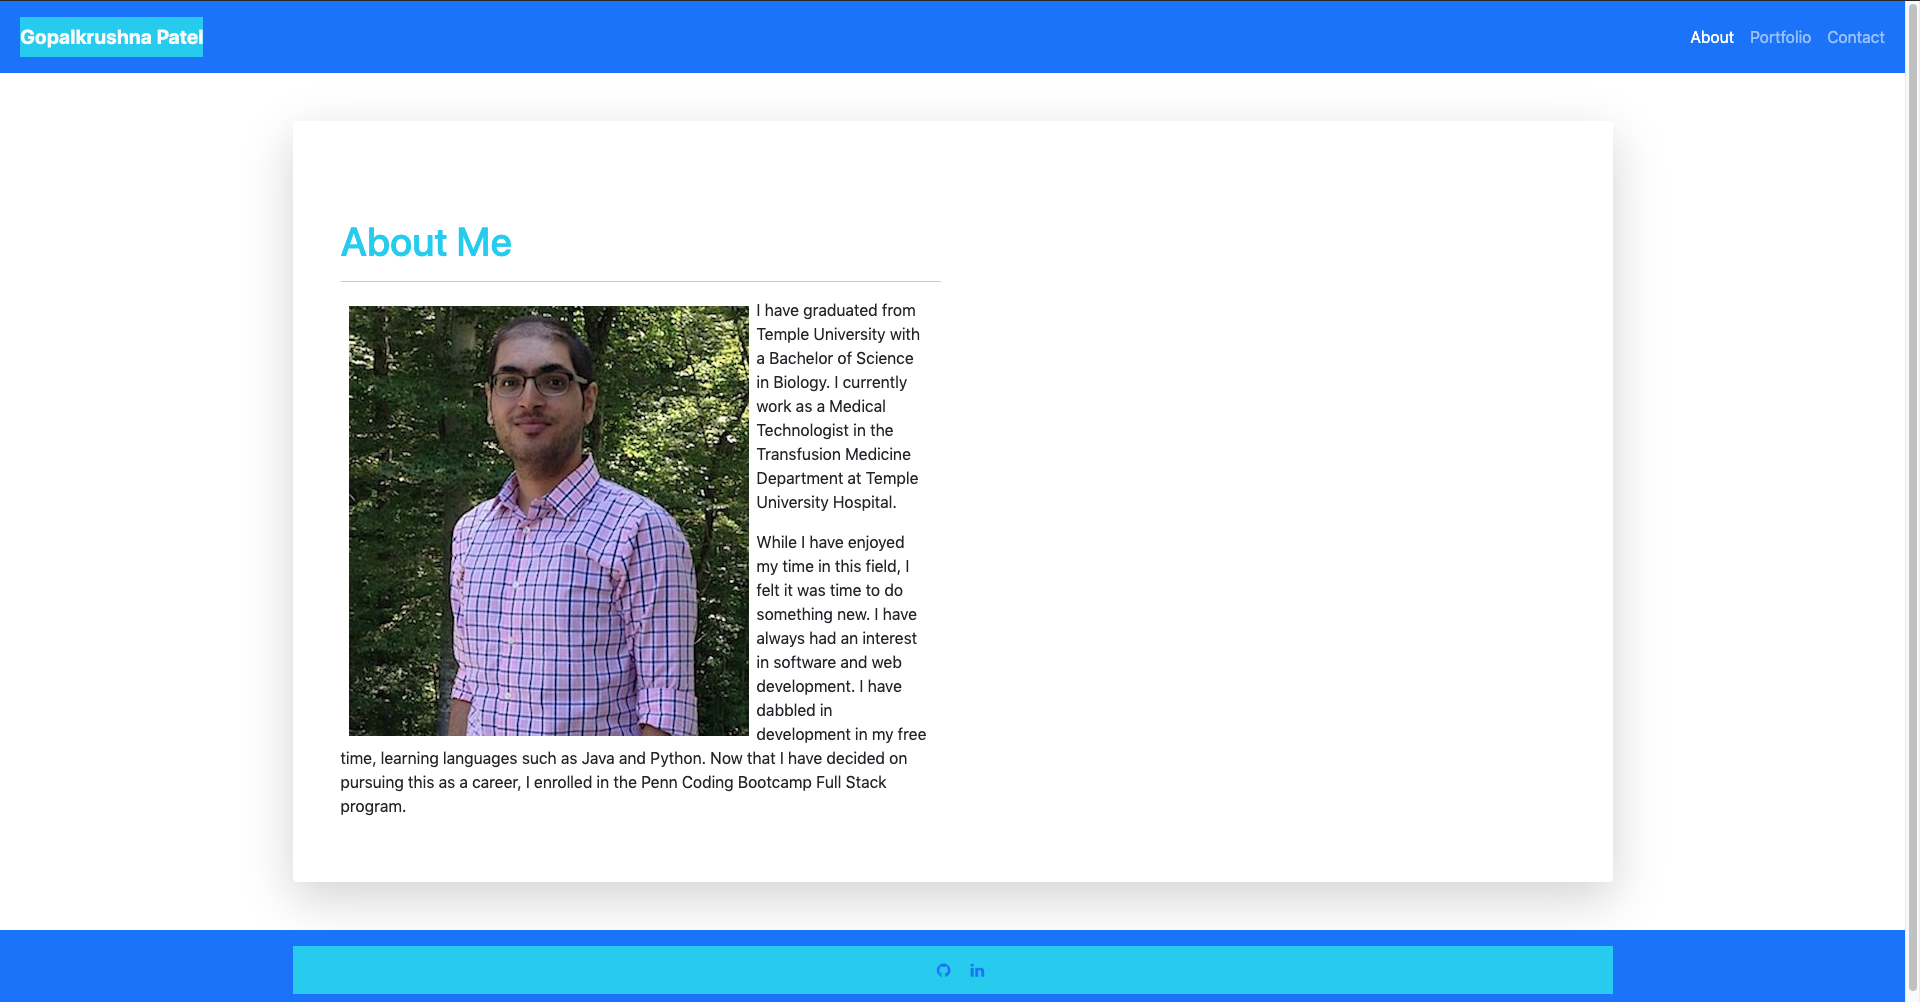
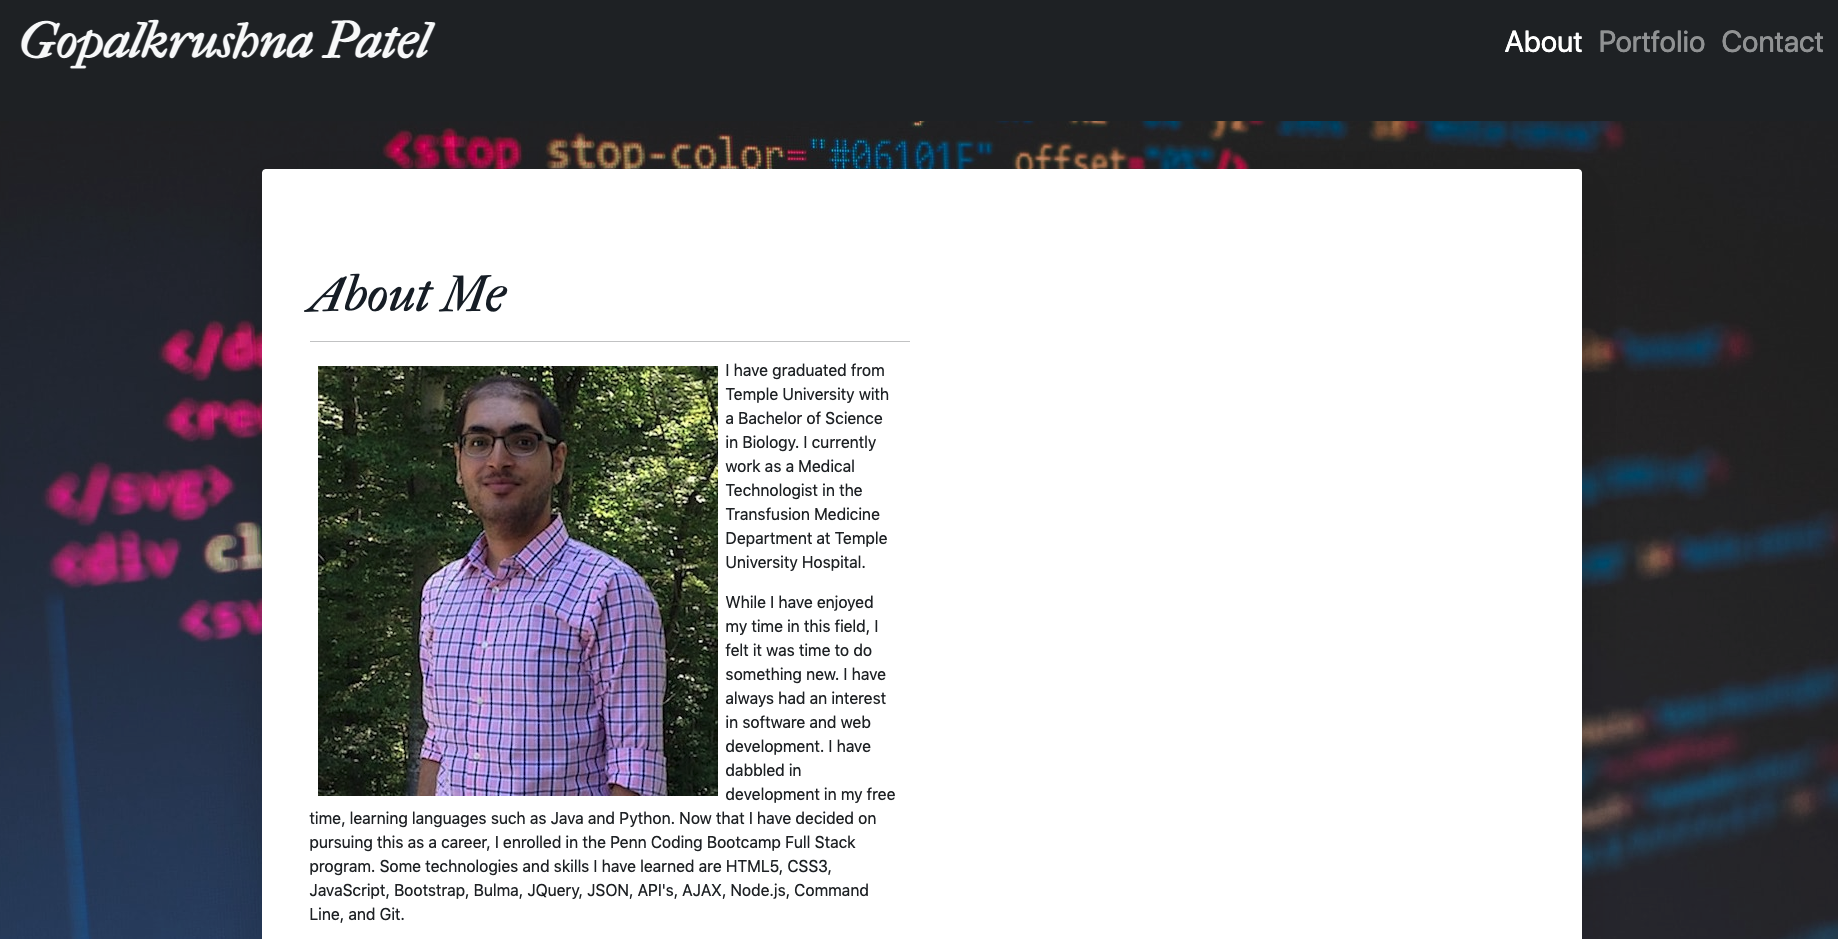
Added updated screenshots, added custom css

diff --git a/Assets/css/style.css b/Assets/css/style.css
@@ -1,0 +1,28 @@
+.navbar {
+    padding: 30px;
+}
+
+.navbar-brand {
+    font-size: 50px;
+    font-family: 'IM Fell French Canon', serif;
+    
+}   
+
+.nav-item {
+    font-size: 30px;
+}
+
+body {
+    background-image: url('../Images/backgroundImage.jpg');
+}
+
+h1 {
+    color: #17202A;
+    font-size: 50px;
+    font-family: 'IM Fell French Canon', serif;
+    
+}
+
+#app-description {
+    text-align: center;
+}
